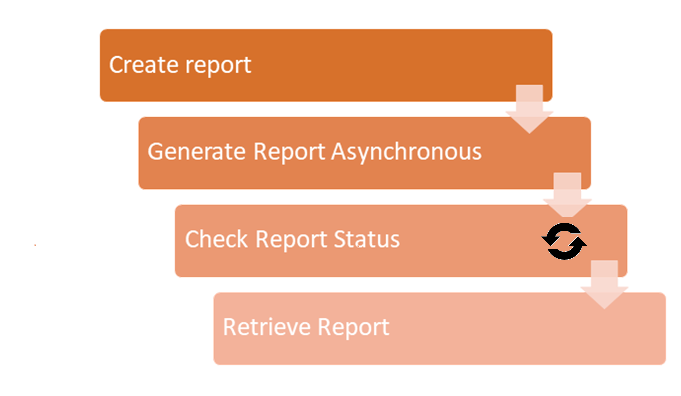
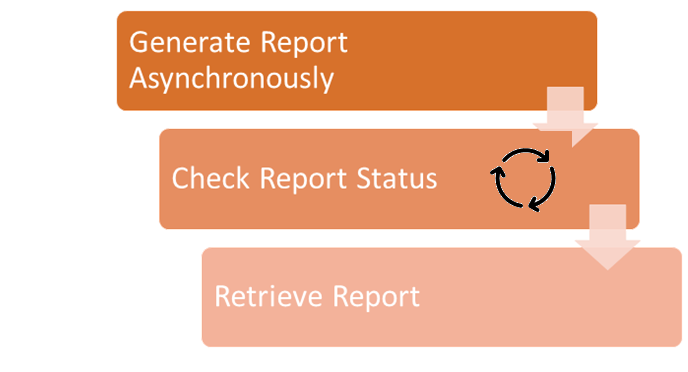
add

diff --git a/1-general-examples/automate-workload-automation-reporting/scripts/README.md b/1-general-examples/automate-workload-automation-reporting/scripts/README.md
@@ -20,7 +20,7 @@ reportName=$(echo $reportName | sed 's/ /%20/g')
 ```
 
 ### Check report format
-Check for 'pdf' or 'csv'.  Although the default is 'csv' when left blank when not specified the API request fails.
+Check for 'pdf' or 'csv'.  Although the default is 'csv' when left blank when not specifed the API request fails.
 ```
 # Check report format
 case $reportFormat in
@@ -40,6 +40,8 @@ while getopts ":e:u:p:r:f:o:" opt; do
 getCurlVersion=$(curl --version)
 if [[ ${getCurlVersion} == *Release-Date* ]]; then
 ```
+curl is executed with the -k switch which allows insecure server connections when using SSL.  This switch can be removed if trusted cerficates are 
+installed for Control-M/Enterpirse Manager.
 
 ### Login
 First, a login to Control-M is performed, and the session token is captured:
@@ -60,20 +62,25 @@ getReportURL=$(curl -k -s -H "Authorization: Bearer $token" "$endpoint/reporting
 ```
 wget --no-check-certificate --directory-prefix=${outputDirectory} "${reportURL}"
 ```
+wget is executed with the --no-check-certificate switch which allows insecure server connections when using SSL.  This switch can be removed if trusted cerficates are 
+installed for Control-M/Enterpirse Manager.
 
 ### Sample Execution
 ```
-./report_get_curl.sh -u reportuser -p reportuserpassword -e https://wla919:8443/automation-api -r active_jobs -f pdf
-reportURL=http://wla919:18080/RF-Server-Files/9a446605-cb3b-401c-8131-d6a35acd276a.pdf
---2019-07-31 17:12:59--  http://wla919:18080/RF-Server-Files/9a446605-cb3b-401c-8131-d6a35acd276a.pdf
-Resolving wla919 (wla919)... 172.28.197.63
-Connecting to wla919 (wla919)|172.28.197.63|:18080... connected.
+./report_get_curl.sh  -e https://wla919:8443/automation-api -u reportuser -p reportuserpassword -r "active_jobs" -o /tmp -f pdf
+Generating report.  Please wait...
+reportURL=http://wla919:18080/RF-Server-Files/9e837d78-b50d-4e6a-80d0-c8424b22f480.pdf
+Downloading report.  Please wait...
+--2019-08-12 16:21:46--  http://wla919:18080/RF-Server-Files/9e837d78-b50d-4e6a-80d0-c8424b22f480.pdf
+Resolving wla919 (wla919)... 172.28.196.77
+Connecting to wla919 (wla919)|172.28.196.77|:18080... connected.
 HTTP request sent, awaiting response... 200
-Length: 2728 (2.7K) [application/pdf]
-Saving to: ‘9a446605-cb3b-401c-8131-d6a35acd276a.pdf’
+Length: 2729 (2.7K) [application/pdf]
+Saving to: ‘/tmp/9e837d78-b50d-4e6a-80d0-c8424b22f480.pdf’
 
-100%[=================================================================================================================================================================>] 2,728       --.-K/s   in 0s
+100%[==============================================================================================================================================>] 2,729       --.-K/s   in 0s
 
-2019-07-31 17:12:59 (170 MB/s) - ‘9a446605-cb3b-401c-8131-d6a35acd276a.pdf’ saved [2728/2728]
+2019-08-12 16:21:47 (190 MB/s) - ‘/tmp/9e837d78-b50d-4e6a-80d0-c8424b22f480.pdf’ saved [2729/2729]
+
 ```
 

diff --git a/1-general-examples/automate-workload-automation-reporting-asynchronously/scripts/README.md b/1-general-examples/automate-workload-automation-reporting-asynchronously/scripts/README.md
@@ -40,6 +40,8 @@ while getopts ":e:u:p:r:f:o:" opt; do
 getCurlVersion=$(curl --version)
 if [[ ${getCurlVersion} == *Release-Date* ]]; then
 ```
+curl is executed with the -k switch which allows insecure server connections when using SSL.  This switch can be removed if trusted cerficates are
+installed for Control-M/Enterpirse Manager.
 
 ### Login
 First, a login to Control-M is performed, and the session token is captured:
@@ -74,25 +76,29 @@ until [[ $reportStatus == "SUCCEEDED" || $i>=$maxiterations ]]; do
 ```
 wget --no-check-certificate --directory-prefix=${outputDirectory} "${reportURL}"
 ```
+wget is executed with the --no-check-certificate switch which allows insecure server connections when using SSL.  This switch can be removed if trusted cerficates are
+installed for Control-M/Enterpirse Manager.
 
 ### Sample Execution
 ```
-$ ./get_report.sh -e https://wla919:8443/automation-api -u reportuser -p reportuserpassword -r active_jobs -f pdf
+./get_report.sh -e https://wla919:8443/automation-api -u reportuser -p reportuserpassword -r active_jobs -f pdf
 Submitting report active_jobs
-reportID=bea8d191-d2b8-4cb3-be25-12db00eb6257
-.
+reportID=3077df4c-1a21-475e-bf74-3b9efe9dba30
+Checking report status.  Please wait.
+...
 status=SUCCEEDED
-reportURL:http://wla919:18080/RF-Server-Files/bea8d191-d2b8-4cb3-be25-12db00eb6257.pdf
---2019-07-31 17:45:35--  http://wla919:18080/RF-Server-Files/bea8d191-d2b8-4cb3-be25-12db00eb6257.pdf
-Resolving wla919 (wla919)... 172.28.197.63
-Connecting to wla919 (wla919)|172.28.197.63|:18080... connected.
+reportURL:http://wla919:18080/RF-Server-Files/3077df4c-1a21-475e-bf74-3b9efe9dba30.pdf
+Downloading report.  Please wait.
+--2019-08-16 16:17:30--  http://wla919:18080/RF-Server-Files/3077df4c-1a21-475e-bf74-3b9efe9dba30.pdf
+Resolving wla919 (wla919)... 172.28.198.9
+Connecting to wla919 (wla919)|172.28.198.9|:18080... connected.
 HTTP request sent, awaiting response... 200
-Length: 2728 (2.7K) [application/pdf]
-Saving to: ‘bea8d191-d2b8-4cb3-be25-12db00eb6257.pdf’
+Length: 2729 (2.7K) [application/pdf]
+Saving to: ‘3077df4c-1a21-475e-bf74-3b9efe9dba30.pdf’
 
-100%[=================================================================================================================================================================>] 2,728       --.-K/s   in 0.006s
+100%[==============================================================================================================================================>] 2,729       --.-K/s   in 0.006s
 
-2019-07-31 17:45:35 (456 KB/s) - ‘bea8d191-d2b8-4cb3-be25-12db00eb6257.pdf’ saved [2728/2728]
+2019-08-16 16:17:30 (413 KB/s) - ‘3077df4c-1a21-475e-bf74-3b9efe9dba30.pdf’ saved [2729/2729]
 ```
 
 

diff --git a/1-general-examples/automate-workload-automation-reporting-asynchronously/README.md b/1-general-examples/automate-workload-automation-reporting-asynchronously/README.md
@@ -7,24 +7,34 @@ the Control-M Reports client, Automation API 'ctm' utility, and direct REST call
 to run the reports without having to wait for them to complete so they don't have to leave it running on their workstations.  Also the sychronous option will soon be deprecated.
 
 ## Prerequisites
-* Automation API 9.0.19+
-* Assigned Roles: BrowseGroup
-* Privileges > Control-M Configuration Manager: Full
-* Privileges > Monitoring and Administration Tools > CLI: Full
-* Unix system with curl and wget
+* Control-M/Enterprise Manager 9.0.19 or higher
+* Automation API 9.0.19 or higher
+* Report defined in Control-M Reports
+* Control-M user with the following minimum privileges:
+    * Assigned Roles: BrowseGroup
+    * Privileges > Control-M Configuration Manager: Full
+    * Privileges > Monitoring and Administration Tools > CLI: Full
+* Unix system with bash, curl, and wget
 
 ## Implementation
 
 ![Script flow](./images/automate-report-asynch-1.png)
 
-The script uses the following [Automation API Reporting service](https://docs.bmc.com/docs/automation-api/919110/reporting-service-872868767.html) commands:
-* [reporting report](https://docs.bmc.com/docs/automation-api/919110/reporting-service-872868767.html#Reportingservice-reportAsyncAsynchronousreportgeneration(reportingreport)) 
-* [reporting status::get](https://docs.bmc.com/docs/automation-api/919110/reporting-service-872868767.html#Reportingservice-reportStatusGetGetreportstatus(reportingstatus::get))
+The script uses the following [Automation API Reporting service](https://docs.bmc.com/docs/automation-api/9191/reporting-service-869536969.html) commands:
+* [reporting report](https://docs.bmc.com/docs/automation-api/9191/reporting-service-869536969.html#Reportingservice-reportAsyncAsynchronousreportgeneration(reportingreport)) 
+* [reporting status::get](https://docs.bmc.com/docs/automation-api/9191/reporting-service-869536969.html#Reportingservice-reportStatusGetGetreportstatus(reportingstatus::get))
 
+## Video
+
+The following video demonstrates the above steps.
+
+[![Video Demo Link](./images/automate-report-asynch-2.png "Video Demo on YouTube")](https://youtu.be/z5mvxQAxDBA)
+
+Click the above image to watch the video on YouTube.
 
 ## Table of Contents
 
-1. [scripts and documentation](./scripts)
+1. [Scripts and Documentation](./scripts)
 
 
 

diff --git a/1-general-examples/automate-workload-automation-reporting/README.md b/1-general-examples/automate-workload-automation-reporting/README.md
@@ -8,11 +8,14 @@ The Operations team has requested a simple bash script they could execute on Uni
 requirements.
 
 ## Prerequisites
-* Automation APi 9.0.18.300 and below.
-* Assigned Roles: BrowseGroup
-* Privileges > Control-M Configuration Manager: Full
-* Privileges > Monitoring and Administration Tools > CLI: Full
-* Unix system with curl
+* Control-M/Enterprise Manager 9.0.18 or higher
+* Automation API 9.0.18 or higher
+* Report defined in Control-M Reports
+* Control-M user with the following minimum privileges:
+    * Assigned Roles: BrowseGroup
+    * Privileges > Control-M Configuration Manager: Full
+    * Privileges > Monitoring and Administration Tools > CLI: Full
+* Unix system with bash, curl, and wget
 
 ## Implementation
 
@@ -21,6 +24,14 @@ requirements.
 ## Limitations
 
 * To generate a report through the Control-M Automation API, the user running the command must be the same as the Control-M/EM user who created the report in Control-M Reports.
+
+## Video
+
+The following video demonstrates the above steps.
+
+[![Video Demo Link](./images/automate-report-2.png "Video Demo on YouTube")](https://youtu.be/VWCKnaXjS9I)
+
+Click the above image to watch the video on YouTube.
 
 
 ## Table of Contents
